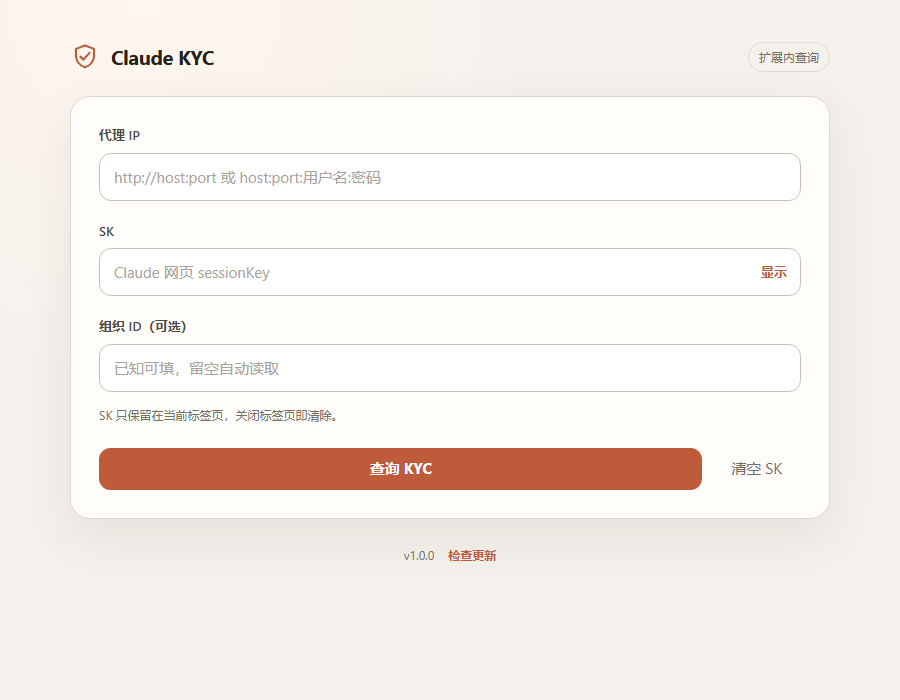
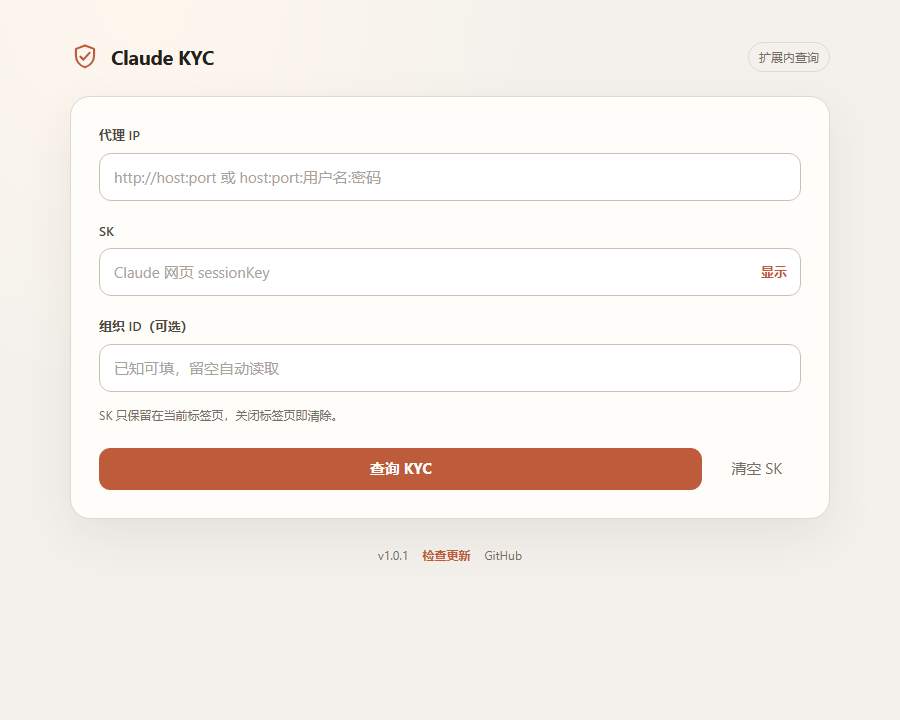
feat: add GitHub repository link

diff --git a/extension/app.html b/extension/app.html
@@ -96,8 +96,10 @@
     </section>
 
     <footer class="footer">
-      <span>v<span id="extension-version">1.0.0</span></span>
+      <span>v<span id="extension-version">1.0.1</span></span>
       <button id="check-update" class="inline-action" type="button">检查更新</button>
+      <a class="footer-link" href="https://github.com/DouDOU-start/claude-kyc-extension"
+        target="_blank" rel="noopener noreferrer">GitHub</a>
     </footer>
   </main>
 

diff --git a/extension/styles.css b/extension/styles.css
@@ -433,6 +433,15 @@ button.secondary:hover:not(:disabled) {
   font-size: 12px;
 }
 
+.footer-link {
+  color: var(--muted);
+  text-decoration: none;
+}
+
+.footer-link:hover {
+  color: var(--accent-strong);
+}
+
 body.is-busy .local-badge {
   color: var(--accent-strong);
   border-color: #e0b6a8;

diff --git a/CHANGELOG.md b/CHANGELOG.md
@@ -1,5 +1,9 @@
 # Changelog
 
+## 1.0.1
+
+- Add a persistent GitHub repository link in the extension footer.
+
 ## 1.0.0
 
 - Initial open-source release.
